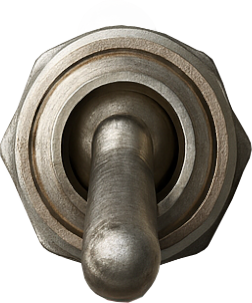
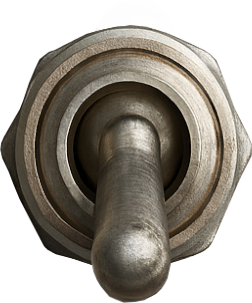
a

diff --git a/public/cockpit.html b/public/cockpit.html
@@ -27,7 +27,7 @@
 
 		<!-- Player Info (IMG1 + Name) -->
 		<div class="player-info">
-			<img class="info_screen" src="/img/layout/screen.png">
+			<img class="info_screen" src="/img/layout/screen_small.png">
 			<div class="checkbox-container">
 				<input type="checkbox" 
 					   class="isactive-checkbox" 
@@ -49,10 +49,11 @@
 		<!-- Stats Container -->
 		<div class="stats-container">
 		
+		<img class="stat_screen1" src="/img/layout/screen_big.png">
+		
 			<!-- Garda -->
 			<div class="stat-item">
 				<div class="stat-label">Garda</div>
-				<img class="stat_screen1" src="/img/layout/screen.png">
 				<div class="stat-control">
 					<div class="stat-value" data-field="Garda">0</div>
 				</div>
@@ -61,7 +62,6 @@
 			<div class="stat-item">
 
 				<div class="stat-label">Wytrz.</div>
-				<img class="stat_screen2" src="/img/layout/screen.png">
 				<div class="stat-control">
 					<div class="stat-value" data-field="Wytrzymałość">0</div>
 				</div>
@@ -69,7 +69,7 @@
 			
 			<!-- Szok -->
 			<div class="stat-item">
-				<div class="stat-label">Szok</div>
+				<div class="stat-label2">Szok</div>
 				<div class="stat-control szok-control">
 					<input type="checkbox" 
 						   class="szok-checkbox" 
@@ -85,7 +85,7 @@
 
 			<!-- Rany -->
 			<div class="stat-item">
-				<div class="stat-label">Rany</div>
+				<div class="stat-label2">Rany</div>
 				<div class="stat-control">
 					<div class="arrow-btn arrow-up" 
 						 onclick="modifyField(1, 'Rany', 1)"></div>
@@ -97,7 +97,7 @@
 
 			<!-- Wyczerpanie -->
 			<div class="stat-item">
-				<div class="stat-label">Wyczerpanie</div>
+				<div class="stat-label2">Wyczerpanie</div>
 				<div class="stat-control">
 					<div class="arrow-btn arrow-up" 
 						 onclick="modifyField(1, 'Wyczerpanie', 1)"></div>
@@ -109,16 +109,12 @@
 
 			<!-- Kapsle -->
 			<div class="stat-item">
+				<img class="button-up" src="/img/layout/button_up.png" onclick="modifyField(1, 'Kapsle', 1)">
+				<img class="button-down" src="/img/layout/button_down.png" onclick="modifyField(1, 'Kapsle', -1)">
+				<img class="info_screen" src="/img/layout/screen_small.png">
 				<div class="stat-label">Kapsle</div>
-				<img class="stat_screen3" src="/img/layout/screen.png">
 				<div class="stat-control">
-
-
-					<div class="arrow-btn arrow-up" 
-						 onclick="modifyField(1, 'Kapsle', 1)"></div>
 					<div class="stat-value" data-field="Kapsle">0</div>
-					<div class="arrow-btn arrow-down" 
-						 onclick="modifyField(1, 'Kapsle', -1)"></div>
 				</div>
 			</div>
 
